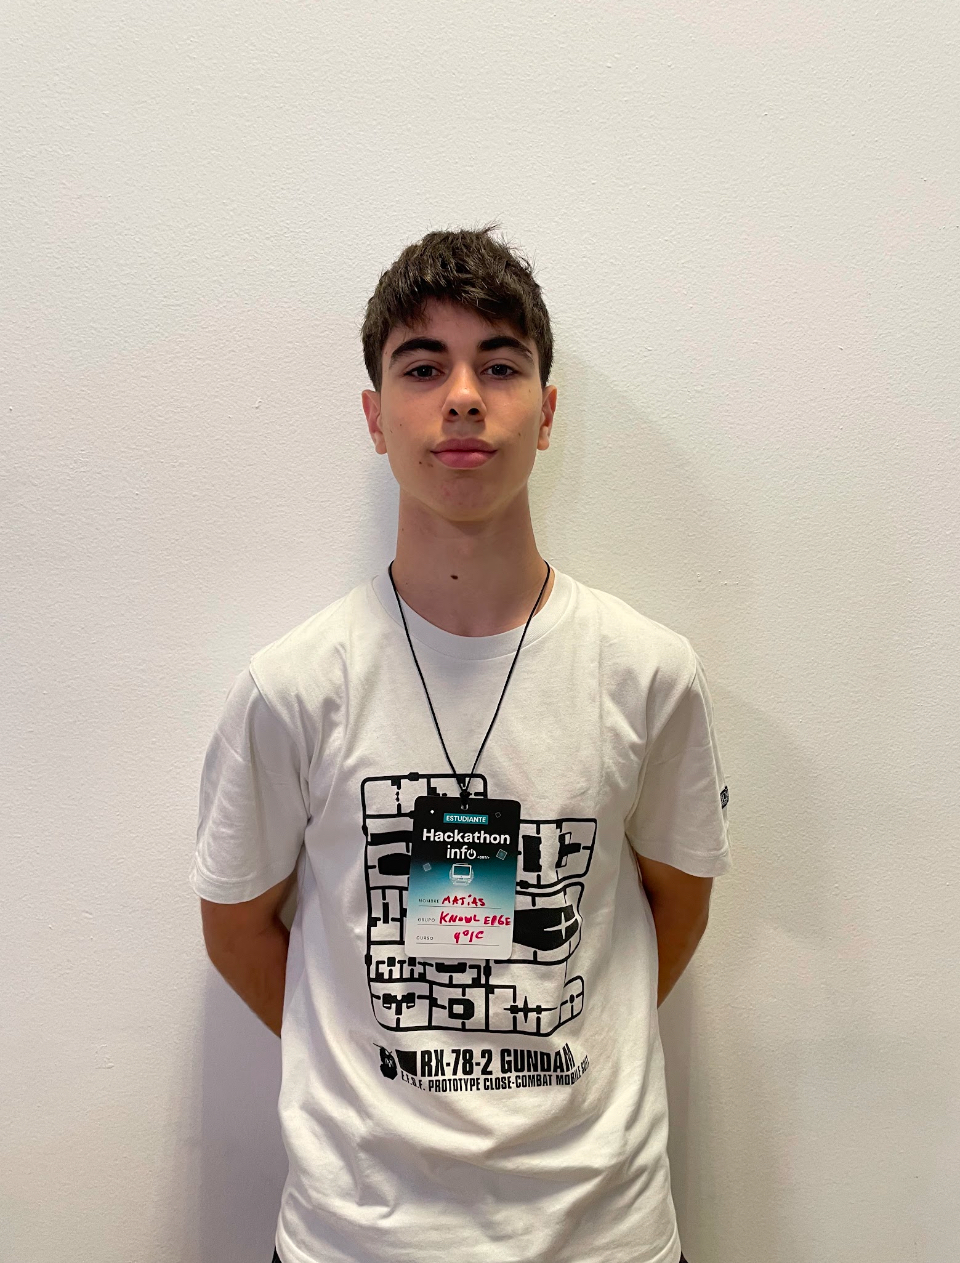
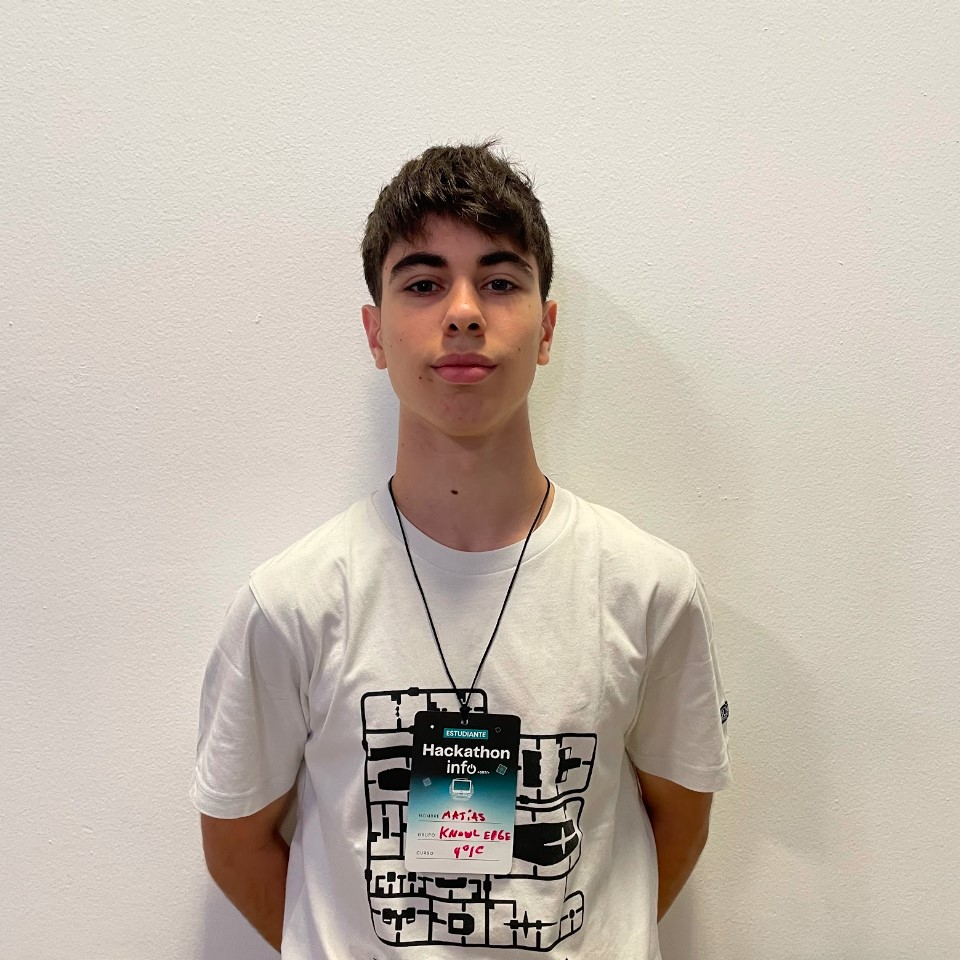
quienes somos hecho

Changed region(s): [[0.0, 0.125, 0.875, 1.0], [0.4688, 0.4375, 0.5, 0.4688]]

diff --git a/src/components/CardProducto.jsx b/src/components/CardProducto.jsx
@@ -8,22 +8,21 @@ function CardProducto({ producto }) {
   }
 
   return (
-    <div className="card border rounded-lg shadow-md overflow-hidden bg-white">
+    <div className="card">
       {}
       <img
         src={producto.image}
         alt={producto.title}
-        className="w-full h-48 object-contain p-4"
       />
       <div className="p-4">
-        <h3 className="text-lg font-semibold mb-2 truncate">
-          <Link to={`/productos/${producto.id}`} className="hover:text-blue-600">
+        <h3>
+          <Link to={`/productos/${producto.id}`}>
             {producto.title}
           </Link>
         </h3>
-        <p className="text-gray-800 font-bold mb-1">${producto.price}</p>
-        <p className="text-sm text-gray-500 capitalize mb-3">{producto.category}</p>
-        <Link to={`/productos/${producto.id}`} className="block w-full text-center bg-blue-500 text-white py-2 rounded-md hover:bg-blue-600 transition-colors">
+        <p>${producto.price}</p>
+        <p>{producto.category}</p>
+        <Link to={`/productos/${producto.id}`}>
           Ver más
         </Link>
       </div>

diff --git a/src/pages/QuienesSomos.jsx b/src/pages/QuienesSomos.jsx
@@ -1,10 +1,13 @@
 import React from 'react';
+import './QuienesSomos.css';
 
 function QuienesSomos() {
   return (
     <div>
       <h1>Soy Matías Wilder, Estudiante de informática. Este proyecto pertenece a la materia EFSI II</h1>
-      <img src="./src/assets/QuienSoy.jpg" style={{ width: '250px', marginTop: '1rem', borderRadius:'20px', textAlign: 'center' }} />
+      <div class="QuienesSomos">
+        <img src="./src/assets/QuienSoy.jpg" />
+      </div>
     </div>
   );
 }

diff --git a/src/pages/Productos.jsx b/src/pages/Productos.jsx
@@ -52,7 +52,7 @@ function Productos() {
 
   return (
     <div className="productos-container">
-      <h1 className="productos-title">
+      <h1 className="productos-titulo">
         {idCategoria ? `Productos de ${idCategoria.charAt(0).toUpperCase() + idCategoria.slice(1)}` : 'Todos los Productos'}
       </h1>
 

diff --git a/src/pages/QuienesSomos.css b/src/pages/QuienesSomos.css
@@ -1,0 +1,11 @@
+.QuienesSomos {
+    border-radius: 50%;
+    text-align: center;
+    margin: auto;
+}
+.QuienesSomos img {
+    width: 250px;
+    height: auto;
+    margin-Top: 1rem;
+    border-radius:50px;
+}

diff --git a/src/pages/Productos.css b/src/pages/Productos.css
@@ -4,7 +4,7 @@
     margin: 0 auto;
   }
   
-  .productos-title {
+  .productos-titulo {
     text-align: center;
     font-size: 2rem;
     margin-bottom: 2rem;
